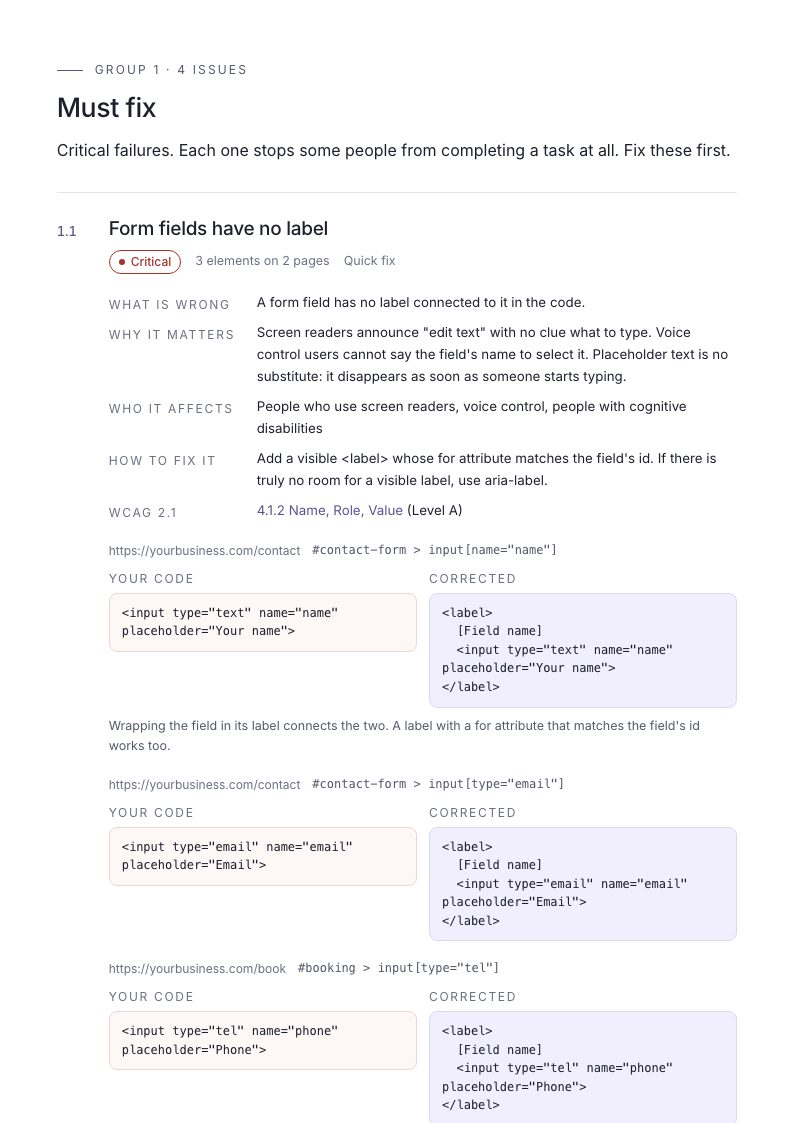
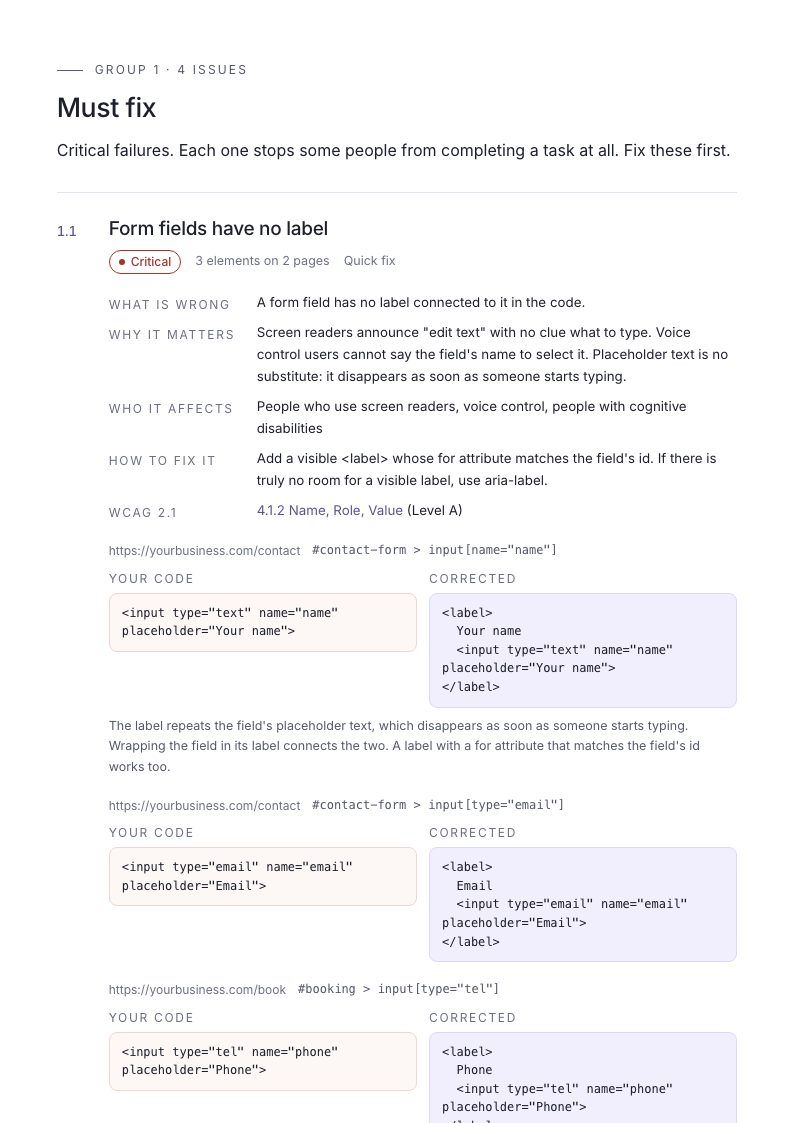
Label fixes use the field's placeholder when it names the field
"Email" or "Your name" becomes the label text instead of [Field name].
Example values (jane@example.com, e.g. Jane, DD/MM/YYYY, phone numbers)
still leave the label for the owner to write. Fields named with aria-label
get the same treatment; buttons do not. The report preview is remade.

Changed region(s): [[0.1209, 0.6233, 0.8766, 1.0], [0.1209, 0.8415, 0.4534, 0.9662], [0.6348, 0.561, 0.665, 0.5922]]

diff --git a/src/lib/rules/fixes.ts b/src/lib/rules/fixes.ts
@@ -95,15 +95,55 @@ export function removeAttr(html: string, name: string): string | null {
   return m[1] + m[2].replace(attrPattern(name), "") + m[3] + html.slice(m[0].length);
 }
 
+function decodeEntities(value: string): string {
+  return value
+    .replace(/&quot;/g, '"')
+    .replace(/&#0*39;|&apos;/g, "'")
+    .replace(/&lt;/g, "<")
+    .replace(/&gt;/g, ">")
+    .replace(/&nbsp;/g, " ")
+    .replace(/&amp;/g, "&");
+}
+
+function escapeText(value: string): string {
+  return value.replace(/&/g, "&amp;").replace(/</g, "&lt;").replace(/>/g, "&gt;");
+}
+
+const DATE_PART = "(?:d{1,2}|m{1,2}|y{2,4}|h{1,2}|s{2})";
+const DATE_FORMAT = new RegExp(`^${DATE_PART}(?:[/.:\\s-]+${DATE_PART})+$`, "i");
+
+// A placeholder that names the field ("Your name", "Email") is the owner's
+// own wording, so it makes a better label than "[Field name]". One that shows
+// an example value ("jane@example.com", "e.g. Jane Smith", "DD/MM/YYYY",
+// "07700 900123") does not name anything, so the owner still writes the label.
+export function placeholderName(html: string): string | null {
+  const raw = getAttr(html, "placeholder") ?? getAttr(html, "aria-placeholder");
+  if (!raw) return null;
+  const text = decodeEntities(raw)
+    .replace(/\s+/g, " ")
+    .replace(/[\s.…:*]+$/u, "")
+    .trim();
+  if (!text || text.length > 40 || !/\p{L}{2}/u.test(text)) return null;
+  if (/@|:\/\/|www\./i.test(text) || /^(?:e\.?\s?g|ex|for example|example)\b/i.test(text)) return null;
+  if (DATE_FORMAT.test(text)) return null;
+  if ((text.match(/\d/g) ?? []).length > text.length / 3) return null;
+  return text;
+}
+
+const FROM_PLACEHOLDER = "The label repeats the field's placeholder text, which disappears as soon as someone starts typing.";
+
 function withLabel(html: string): SuggestedFix | null {
+  const named = placeholderName(html);
+  const text = named ? escapeText(named) : "[Field name]";
   const id = getAttr(html, "id");
   if (id) {
-    return { code: `<label for="${escapeAttr(id)}">[Field name]</label>\n${html}` };
+    return { code: `<label for="${escapeAttr(id)}">${text}</label>\n${html}`, note: named ? FROM_PLACEHOLDER : undefined };
   }
   if (!openingTag(html)) return null;
+  const wrapping = "Wrapping the field in its label connects the two. A label with a for attribute that matches the field's id works too.";
   return {
-    code: `<label>\n  [Field name]\n  ${html}\n</label>`,
-    note: "Wrapping the field in its label connects the two. A label with a for attribute that matches the field's id works too.",
+    code: `<label>\n  ${text}\n  ${html}\n</label>`,
+    note: named ? `${FROM_PLACEHOLDER} ${wrapping}` : wrapping,
   };
 }
 
@@ -285,7 +325,10 @@ export function suggestFix(ruleId: string, node: NodeData): SuggestedFix | null 
           : undefined;
       if (ruleId === "role-img-alt" && tag === "img") return wrap(setAttr(html, "alt", "[Describe the image]"));
       const role = getAttr(html, "role")?.trim().split(/\s+/)[0].toLowerCase() ?? "";
-      return wrap(setAttr(html, "aria-label", LABEL_BY_ROLE[role] ?? LABEL_BY_RULE[ruleId]), note);
+      const label = LABEL_BY_ROLE[role] ?? LABEL_BY_RULE[ruleId];
+      // A field's placeholder can name it; a button's name says what it does.
+      const named = label === "[Field name]" ? placeholderName(html) : null;
+      return wrap(setAttr(html, "aria-label", named ?? label), note);
     }
     case "label":
     case "select-name":

diff --git a/tests/unit/fixes.test.ts b/tests/unit/fixes.test.ts
@@ -34,6 +34,39 @@ describe("suggestFix", () => {
     expect(suggestFix("label", { html: '<input type="email">' })?.code).toContain("<label>");
   });
 
+  it("uses a placeholder that names the field as the label text", () => {
+    const wrapped = suggestFix("label", { html: '<input type="email" name="email" placeholder="Email">' });
+    expect(wrapped?.code).toBe('<label>\n  Email\n  <input type="email" name="email" placeholder="Email">\n</label>');
+    expect(wrapped?.note).toContain("placeholder");
+    expect(suggestFix("label", { html: '<input id="q" placeholder="Search products…">' })?.code).toBe(
+      '<label for="q">Search products</label>\n<input id="q" placeholder="Search products…">',
+    );
+    expect(suggestFix("label", { html: '<input placeholder="Your name *">' })?.code).toContain("\n  Your name\n");
+    expect(suggestFix("label", { html: '<input placeholder="Address line 1">' })?.code).toContain("\n  Address line 1\n");
+    expect(suggestFix("label", { html: '<input placeholder="Fish &amp; chips">' })?.code).toContain("\n  Fish &amp; chips\n");
+  });
+
+  it("keeps [Field name] when the placeholder is an example value, not a name", () => {
+    for (const placeholder of ["jane@example.com", "e.g. Jane Smith", "Eg: London", "DD/MM/YYYY", "07700 900123", "0.00", "https://", "…", ""]) {
+      const fix = suggestFix("label", { html: `<input placeholder="${placeholder}">` });
+      expect(fix?.code, placeholder).toContain("[Field name]");
+      expect(fix?.note, placeholder).not.toContain("placeholder");
+    }
+    const long = "Tell us a little about what you would like us to do for you";
+    expect(suggestFix("label", { html: `<input placeholder="${long}">` })?.code).toContain("[Field name]");
+  });
+
+  it("uses the placeholder for fields named with aria-label too", () => {
+    expect(suggestFix("aria-input-field-name", { html: '<div role="searchbox" aria-placeholder="Search recipes" contenteditable="">' })?.code).toBe(
+      '<div role="searchbox" aria-placeholder="Search recipes" contenteditable="" aria-label="Search recipes">',
+    );
+    expect(suggestFix("button-name", { html: '<button role="combobox" placeholder="Choose a size">…</button>' })?.code).toBe(
+      '<button role="combobox" placeholder="Choose a size" aria-label="Choose a size">…</button>',
+    );
+    // A button's name is what it does, never a placeholder.
+    expect(suggestFix("button-name", { html: '<button placeholder="Search">…</button>' })?.code).toContain("[What the button does]");
+  });
+
   it("sets the page language", () => {
     expect(suggestFix("html-has-lang", { html: "<html>" })?.code).toBe('<html lang="en">');
   });
